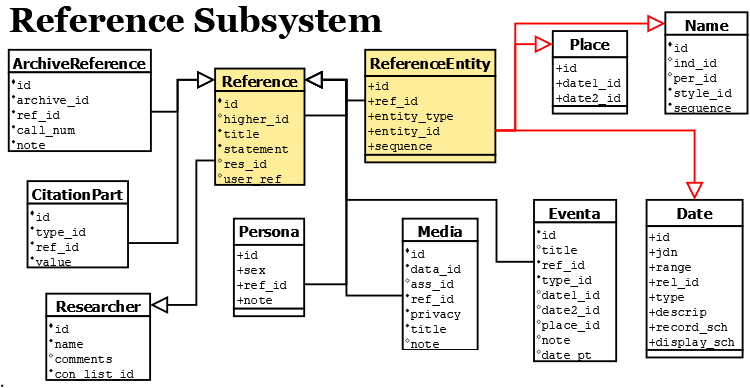
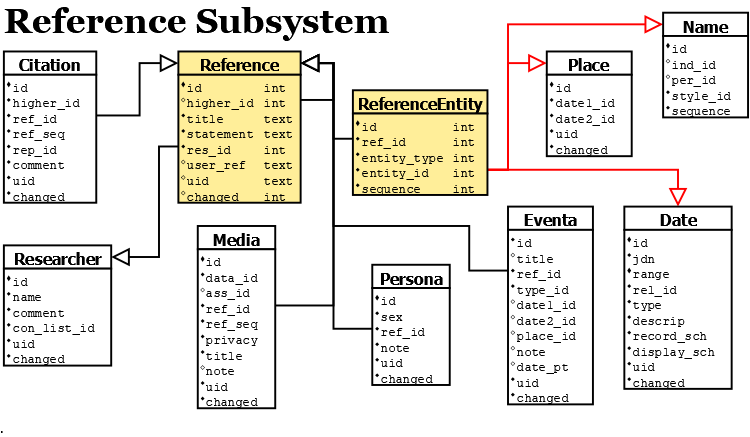
Website, update development manual description of database Reference subsystem.

Changed region(s): [[0.0, 0.0, 1.0, 0.9897]]

diff --git a/website/dev/man/db/sub/references.htm b/website/dev/man/db/sub/references.htm
@@ -45,9 +45,38 @@
 </blockquote>
 
 <div class="diag"><img src="tfp-reference.png" alt="Reference Subsystem" /></div>
-<h2>References</h2>
+<h2>Reference Document</h2>
 <p>
- The Reference Document is the at the centre of the evidence database. It consists of an id, title and statement - the statement being an XML document based on the TEI (Text Encoding Initiative) specification. The specification will be extended to enable words and phrases to be linked to a ReferenceEntity which in turn links to one of the following records: Source, Date, Place, Name, Relationship and Event. These records may, in turn, refer to a persona.
+ The Reference Document is the at the centre of the evidence database.
+ And the centre of Reference Document is the statement.
+</p>
+<p>
+ Reference records are currently organized as a tree structure
+ using the <b>higher_id</b> field. This may change in the future.
+</p>
+<p>
+ Each record is attributed to a researcher with the <b>res_id</b> field.
+ By default, this is the current user at the time the record is created.
+</p>
+
+<h3>Reference Statement</h3>
+<p>
+ The reference <b>statement</b> is a text field which describes some aspect of the
+ family history.
+ In may be a statement from the researcher, a transcription of a historical document,
+ a description of a family photograph, or a summary of other documents.
+</p>
+<p>
+ The format of the text either normal text or marked up html format.
+ In either case the text can be linked to other records
+ that have been created to support the document, using the &lt;a&gt; tag.
+ In the future, a mark-down dialect will be developed. 
+</p>
+<p>
+ A reference document for standard types of documents
+ (Census, Birth, deaths and Marriages etc.)
+ can be created from template documents,
+ which will do most of the work of entering the various records.
 </p>
 
 </div><!--id=content-->
